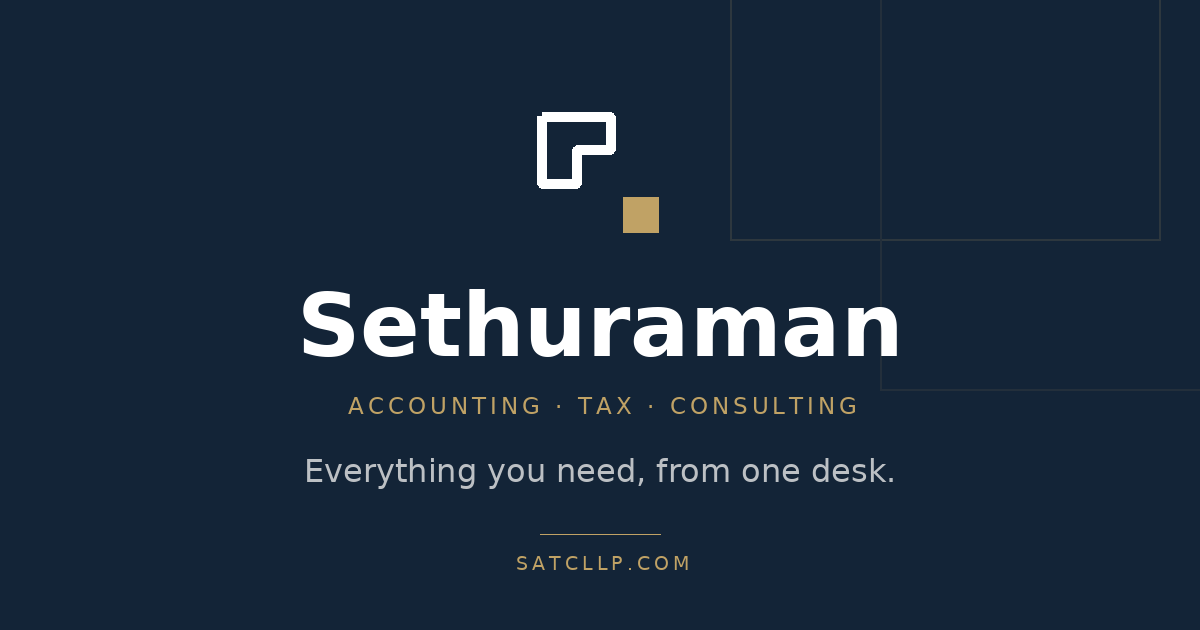
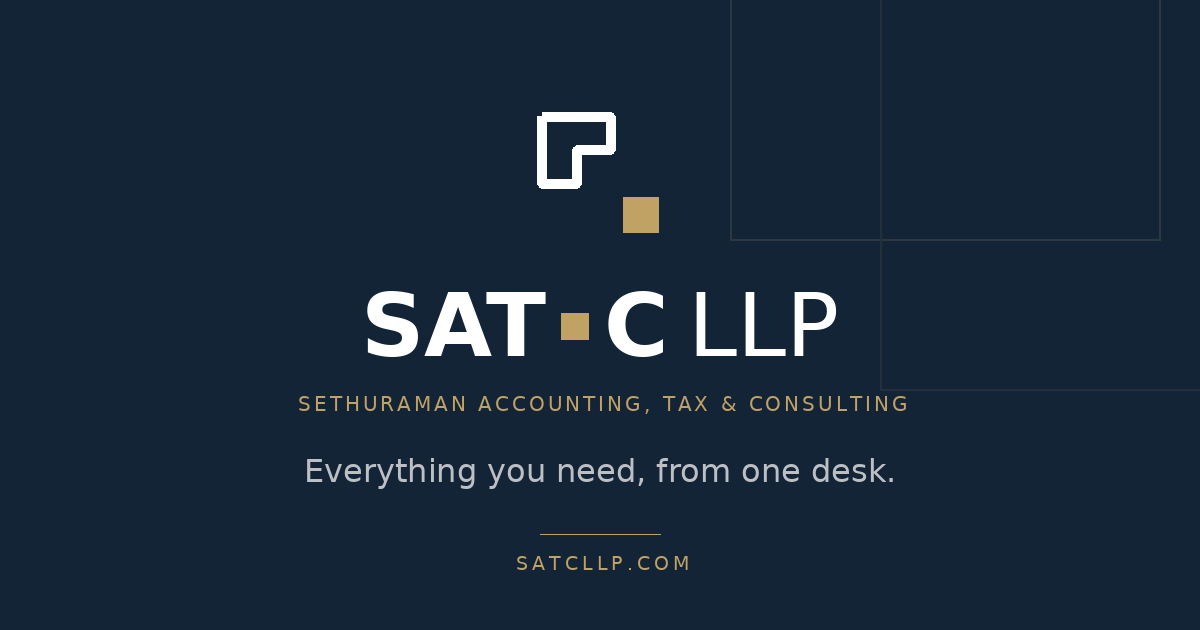
website: adopt the SAT-C wordmark from the new mark spec
The nav and footer showed the Notch symbol beside "SETHURAMAN". The spec
replaces that name with a wordmark: a solid square standing in for the hyphen
in SAT-C, LLP set lighter after it, and the full firm name beneath as the
descriptor. Oxblood square on light grounds, gold on navy.

The spec contradicts itself on whether the symbol stays on the page. Section
04 and section 06 both say the symbol is favicon, app icon and OG image only —
06 goes as far as supplying CSS to hide it in the lockup. Section 02 captions
the oxblood-piece variant "website nav, app chrome". We are following 02: the
nav keeps the symbol with the oxblood piece, and the footer reverses it to
gold along with the wordmark's hyphen square. The comment in the CSS records
the conflict so the next person does not have to rediscover it.

The hyphen square is sized in em, which is the one trap here: if font-size
drifts off .wm the square collapses to the inherited 16px while the letters
stay large. Measured in Chromium at 6.59px against a 22px font — exactly the
0.3em the spec calls for.

make-images.py grows a wordmark() that draws the same proportions the CSS
uses, so the OG image carries the wordmark rather than "Sethuraman", and the
descriptor spells the firm name out in full. mark() itself is unchanged: the
replacement the spec supplies is equivalent to what was already there, same
27-unit footprint and the same six points. The favicon likewise already
matched the spec's data URI.
[…]

Changed region(s): [[0.2467, 0.4524, 0.7708, 0.573], [0.2467, 0.6333, 0.5242, 0.6635], [0.555, 0.6333, 0.7708, 0.6635]]

diff --git a/website/index.html b/website/index.html
@@ -162,30 +162,51 @@ img, svg { max-width: 100%; }
 .btn-link::after { content: "→"; letter-spacing: 0; font-size: 14px; color: var(--oxblood); }
 .btn-link:hover { color: var(--oxblood); }
 
-/* ---- lockup: the Notch mark replaces the circular S seal ----
-   Outer is a PATH (a square with an 8x8 notch removed at bottom-right); the
-   inner rect is the removed piece, same 8x8, set beside it. Outer takes
-   currentColor so .on-dark inverts with no second file. */
+/* ---- lockup: the Notch symbol + the SAT-C wordmark ----
+   The mark spec contradicts itself on this: §04 and §06 say the symbol is
+   favicon/app-icon/OG only, while §02 captions the oxblood-piece variant
+   "website nav, app chrome". §02 is the one we're following — the nav carries
+   the symbol with the oxblood piece, beside the wordmark.
+
+   The wordmark is a solid square standing in for the hyphen in SAT-C, LLP set
+   lighter after it, and the firm name beneath as the descriptor. */
 .lockup { display: inline-flex; align-items: center; gap: 13px; color: var(--navy); }
-.lockup .seal { width: 30px; height: 30px; flex: 0 0 auto; }
-/* the outer square takes currentColor so it inverts on dark automatically */
+.lockup .seal { width: 32px; height: 32px; flex: 0 0 auto; }
+/* the outer square takes currentColor so it inverts on dark with no second file */
 .lockup .seal .s-o { fill: none; stroke: currentColor; stroke-width: 2.6; }
 .lockup .seal .s-i { fill: var(--oxblood); }
-/* the vertical gold divider was pure ornament — drop it */
 .lockup .divider { display: none; }
-.lockup .text { display: flex; flex-direction: column; gap: 3px; }
-.lockup .name {
-  font-family: var(--sans); font-weight: 700; font-size: 16px;
-  letter-spacing: -0.03em; text-indent: 0; line-height: 1; white-space: nowrap;
+.lockup .text {
+  display: flex; flex-direction: column; align-items: flex-start; gap: 5px;
+}
+.lockup .wm {
+  display: flex; align-items: flex-end;
+  font-family: var(--sans); font-size: 22px; font-weight: 700;
+  letter-spacing: -0.04em; line-height: 0.74; white-space: nowrap;
+}
+/* The square is sized in em, so font-size has to stay on .wm itself. Move it
+   to a parent and the square silently collapses to the inherited 16px while
+   the letters stay large — em would have no ancestor to resolve against. */
+.lockup .wm .hy {
+  width: 0.3em; height: 0.3em; flex: 0 0 auto;
+  background: var(--oxblood);
+  margin: 0 0.18em 0.2em;      /* the bottom margin lifts it to hyphen height */
+}
+/* LLP reads as a suffix, not part of the name */
+.lockup .wm i {
+  font-style: normal; font-weight: 500; letter-spacing: 0; margin-left: 0.22em;
 }
 .lockup .tag {
-  font-family: var(--mono); font-size: 8.5px; letter-spacing: 0.16em;
+  font-family: var(--mono); font-size: 8.5px; letter-spacing: 0.14em;
   text-transform: uppercase; color: var(--mute); text-indent: 0;
   font-weight: 400; white-space: nowrap;
 }
+/* Reversed: outline goes white via currentColor, and BOTH squares — the
+   removed piece and the wordmark's hyphen — go gold. */
 .lockup.on-dark { color: #fff; }
 .lockup.on-dark .tag { color: rgba(255,255,255,0.55); }
 .lockup.on-dark .seal .s-i { fill: var(--gold); }
+.lockup.on-dark .wm .hy { background: var(--gold); }
 
 /* ============================================================ STICKY NAV */
 .nav {
@@ -616,15 +637,14 @@ footer { background: var(--navy-deep); color: rgba(255,255,255,0.66); padding: c
 <!-- ============================================================ NAV -->
 <nav class="nav" id="nav">
   <div class="nav-inner">
-    <a class="lockup" href="#top" aria-label="SATC — home">
+    <a class="lockup" href="#top" aria-label="SAT-C LLP — home">
       <svg class="seal" viewBox="0 0 32 32" xmlns="http://www.w3.org/2000/svg" aria-hidden="true">
         <path class="s-o" d="M3 3 H19 V11 H11 V19 H3 Z"/>
         <rect class="s-i" x="22" y="22" width="8" height="8"/>
       </svg>
-      <div class="divider"></div>
       <div class="text">
-        <span class="name">SETHURAMAN</span>
-        <span class="tag">Accounting · Tax · Consulting</span>
+        <span class="wm">SAT<span class="hy"></span>C<i>LLP</i></span>
+        <span class="tag">Sethuraman Accounting, Tax &amp; Consulting</span>
       </div>
     </a>
     <button class="nav-toggle" id="navToggle" aria-label="Toggle menu" aria-expanded="false" aria-controls="navLinks">
@@ -875,13 +895,12 @@ footer { background: var(--navy-deep); color: rgba(255,255,255,0.66); padding: c
       <div class="foot-brand">
         <div class="lockup on-dark">
           <svg class="seal" viewBox="0 0 32 32" xmlns="http://www.w3.org/2000/svg" aria-hidden="true">
-        <path class="s-o" d="M3 3 H19 V11 H11 V19 H3 Z"/>
-        <rect class="s-i" x="22" y="22" width="8" height="8"/>
-      </svg>
-          <div class="divider"></div>
+            <path class="s-o" d="M3 3 H19 V11 H11 V19 H3 Z"/>
+            <rect class="s-i" x="22" y="22" width="8" height="8"/>
+          </svg>
           <div class="text">
-            <span class="name">SETHURAMAN</span>
-            <span class="tag">Accounting · Tax · Consulting</span>
+            <span class="wm">SAT<span class="hy"></span>C<i>LLP</i></span>
+            <span class="tag">Sethuraman Accounting, Tax &amp; Consulting</span>
           </div>
         </div>
         <p>

diff --git a/website/assets/make-images.py b/website/assets/make-images.py
@@ -63,6 +63,38 @@ def draw_centered(draw, cx, y, s, fnt, fill):
     draw.text((cx - draw.textlength(s, font=fnt) / 2, y), s, font=fnt, fill=fill)
 
 
+def wordmark(draw, cx, y, size, ink, square):
+    """SAT[square]C LLP, centered on cx, drawn from the top at y.
+
+    The proportions come straight from the CSS in the mark spec, with the
+    font-size standing in for the em: square 0.3em, 0.18em either side of it,
+    LLP set 0.22em after the C at a lighter weight. The square sits 0.2em above
+    the baseline so it reads at hyphen height rather than as a full stop.
+    """
+    bold = font(SANS_BOLD, size)
+    med = font(SANS, size)
+    sq, pad, llp_gap = 0.30 * size, 0.18 * size, 0.22 * size
+
+    w_sat = draw.textlength("SAT", font=bold)
+    w_c = draw.textlength("C", font=bold)
+    w_llp = draw.textlength("LLP", font=med)
+    total = w_sat + pad + sq + pad + w_c + llp_gap + w_llp
+
+    # Cap bottom of the bold face, so the square lines up with real letterforms
+    # rather than with the font's full em box.
+    cap_bottom = draw.textbbox((0, 0), "SATC", font=bold)[3]
+
+    x = cx - total / 2
+    draw.text((x, y), "SAT", font=bold, fill=ink)
+    x += w_sat + pad
+    sq_bottom = y + cap_bottom - 0.20 * size
+    draw.rectangle([x, sq_bottom - sq, x + sq, sq_bottom], fill=square)
+    x += sq + pad
+    draw.text((x, y), "C", font=bold, fill=ink)
+    x += w_c + llp_gap
+    draw.text((x, y), "LLP", font=med, fill=ink)
+
+
 def mark(draw, x, y, size, outer=WHITE, inner=GOLD):
     """The Notch mark. (x, y) is the top-left of the whole footprint.
 
@@ -99,9 +131,11 @@ def make_og():
 
     mark(d, W // 2 - 58, 116, 116, outer=WHITE, inner=GOLD)
 
-    draw_centered(d, W // 2, 274, "Sethuraman", font(SANS_BOLD, 88), WHITE)
-    draw_tracked(d, W // 2, 392, "ACCOUNTING · TAX · CONSULTING",
-                 font(MONO, 23), GOLD, tracking=4)
+    # The wordmark, not the firm name in full — the descriptor carries that.
+    # On navy the hyphen square goes gold, matching .lockup.on-dark .wm .hy.
+    wordmark(d, W // 2, 274, 88, ink=WHITE, square=GOLD)
+    draw_tracked(d, W // 2, 392, "SETHURAMAN ACCOUNTING, TAX & CONSULTING",
+                 font(MONO, 20), GOLD, tracking=3)
     draw_centered(d, W // 2, 452, "Everything you need, from one desk.",
                   font(SANS, 32), blend(SHELL, NAVY, 0.74))
 
